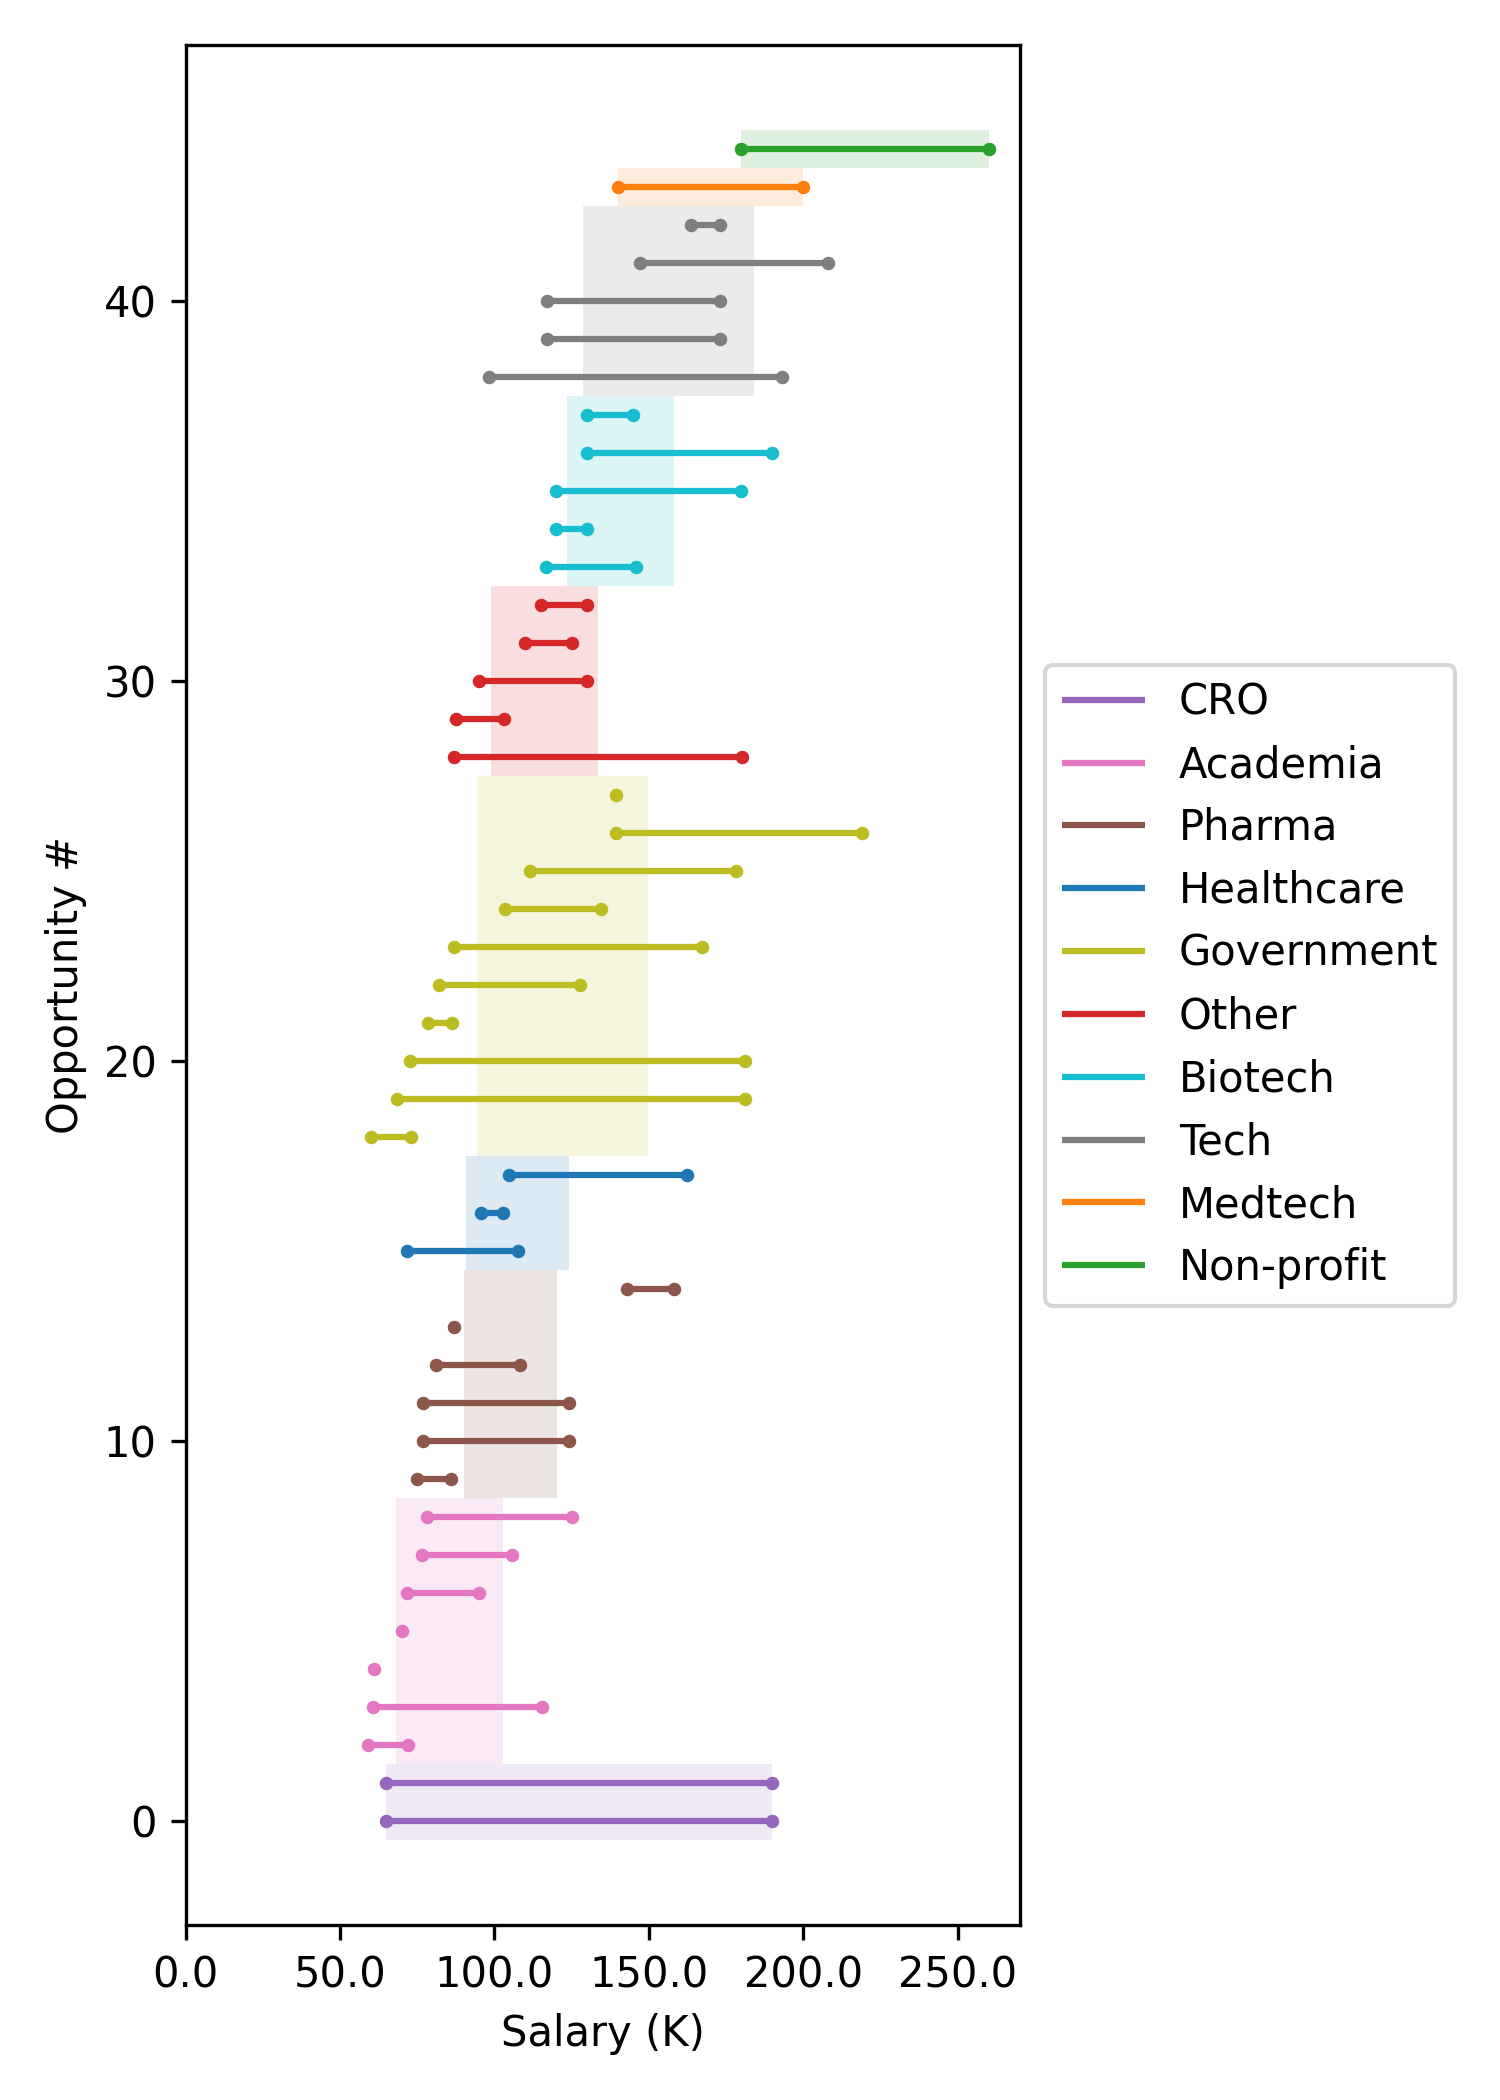
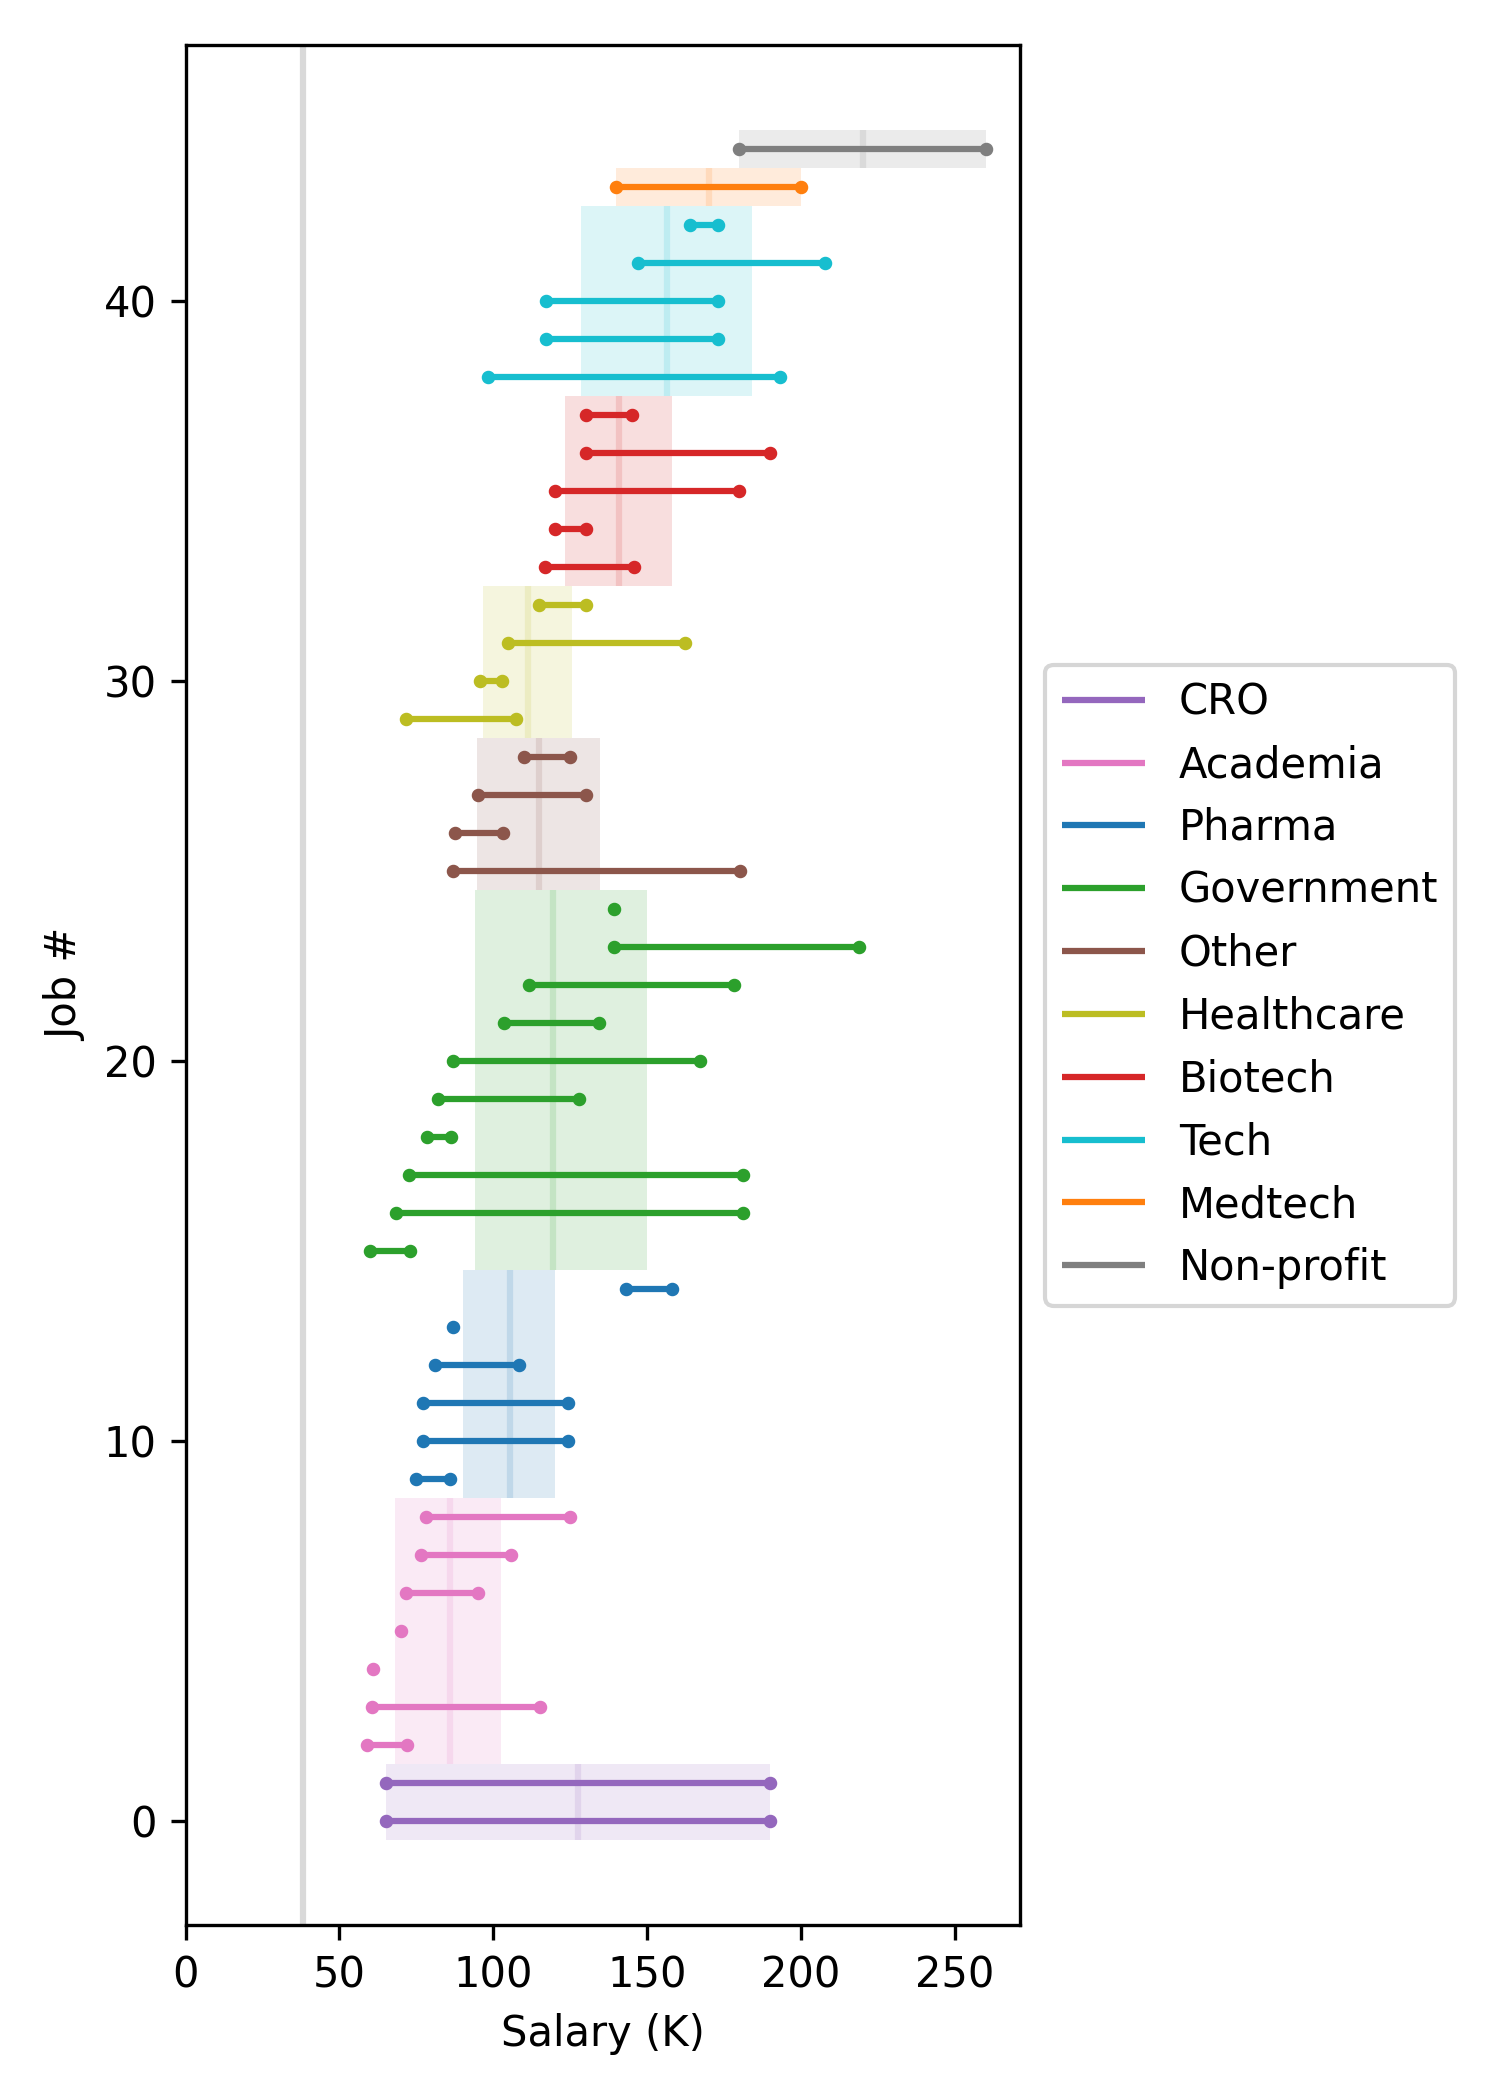
Added updated salary range figure

diff --git a/jseda/salary.py b/jseda/salary.py
@@ -75,6 +75,13 @@ class SalaryRangeFigure():
                 alpha=0.15,
                 edgecolor='none',
             )
+
+            # Vertical lines
+            x3 = np.nanmean((x2 - x1) / 2 + x1)
+            ax.vlines(x3, y - 0.5, y + len(x1) - 0.5,
+                color=cmap(i),
+                alpha=0.15
+            )
             
             # Markers
             for ii in np.argsort(salary_data[:, 0]):
@@ -82,10 +89,13 @@ class SalaryRangeFigure():
                 ax.scatter([x1, x2], [y, y], color=cmap(i), s=5)
                 y += 1
 
+        ylim = ax.get_ylim()
+        ax.vlines(38110, *ylim, color='k', alpha=0.15)
+        ax.set_ylim(ylim)
         ax.set_xlim([0, ax.get_xlim()[1]])
-        ax.set_xticklabels(ax.get_xticks() / 1000)
+        ax.set_xticklabels(np.array(ax.get_xticks() / 1000).astype(int))
         ax.set_xlabel('Salary (K)')
-        ax.set_ylabel('Opportunity #')
+        ax.set_ylabel('Job #')
         ax.legend(
             loc="center left",
             bbox_to_anchor=(1, 0.5),
